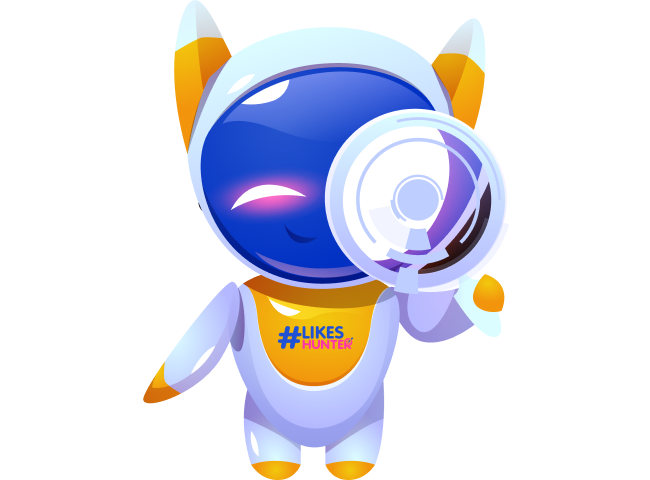
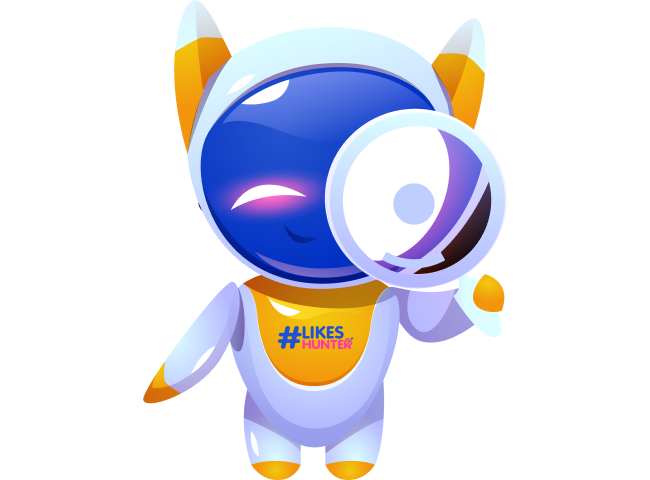
final-41

diff --git a/style.css b/style.css
@@ -1280,9 +1280,11 @@ text-align: left;
     0%
     {
         transform: rotate(0);
+        
     }
     33.333%
     {
+       
         transform: rotate(60deg);
     }
     66.666%
@@ -2457,12 +2459,92 @@ height: 577.77px;
     position: relative;
     right: 0;
 }
-.reasons .works__items .circle{
-    width: 290px;
-    height: 290px;
-    top: 100px;
+
+.reasons .works__items .circle {
+    width: 200px;
+    height: 200px;
+    top: 150px;
     left: auto;
-    right: 87px;
+    right: 135px;
+}
+
+
+
+.reasons .works__items .circle3{
+    animation-name: works-Circle3;
+    animation-duration: 25s;
+    animation-timing-function: linear;
+    animation-iteration-count: infinite;
+}
+
+
+@keyframes works-Circle3
+{
+    0%
+    {
+        transform: scale(0.66) rotate(0);
+    }
+    33.333%
+    {
+        transform: scale(0.66) rotate(70deg);
+    }
+    75%
+    {
+        transform: scale(0.66) rotate(-70deg);
+    }
+    100%
+    {
+        transform: scale(0.66) rotate(0);
+    }
+}
+
+
+
+
+
+.reasons .works__items .circle4{
+    animation-name: works-Circle4;
+    animation-duration: 25s;
+    animation-timing-function: linear;
+    animation-iteration-count: infinite;
+}
+@keyframes works-Circle4
+{
+    0%
+    {
+        transform:scale(0.50) rotate(0);
+    }
+    20%
+    {
+        transform:scale(0.50) rotate(40deg);
+    }
+    100%
+    {
+        transform:scale(0.50) rotate(360deg);
+    }
+}
+
+
+.reasons .works__items .circle5{
+    animation-name: works-Circle5;
+    animation-duration: 25s;
+    animation-timing-function: linear;
+    animation-iteration-count: infinite;
+}
+@keyframes works-Circle5
+{
+    0%
+    {
+        transform: scale(0.3) rotate(0);
+    }
+    50%
+    {
+        transform: scale(0.3) rotate(360deg);
+    }
+    100%
+    {
+        transform: scale(0.3) rotate(0);
+    }
 }
 
 
@@ -2907,6 +2989,22 @@ margin-top: 22px;
     z-index: 2;
     width: 262.5px;
 }
+
+
+
+
+
+.reasons .works__items .circle3{
+    transform: scale(0.7);
+}
+
+
+
+
+
+
+
+
 @media (max-width: 1899px) { 
 
     .first_section .image
@@ -2982,9 +3080,9 @@ margin-top: 22px;
     .tags__approved{
         right: 180px;
     }
-    .reasons .works__items .circle{
-        top: 88px;
-        right: 81px;
+    .reasons .works__items .circle {
+        top: 134px;
+        right: 127px;
     }
     @keyframes how__cirle-phone{
 
@@ -4207,20 +4305,20 @@ z-index: 1;
         right: auto;
         left: 50%;
         transform: translate(-50%);
+        width: 235px;
     }
     .works__img img{
-        height: 147px;
-        width: 212px;
+        height: 177px;
+        width: 235px;
     }
     .reasons .works__items .circle{
-        height: 160px;
-        width: 160px;
+            height: 140px;
+            width: 140px;
     }
-    .reasons .works__items .image{
-        left: -410px;
-        top: -60px;
-
-z-index: 1;
+    .reasons .works__items .image {
+        left: -367px;
+        top: -96px;
+        z-index: 1;
     }
     .works__subtitle{
         text-align: center;
@@ -4245,7 +4343,7 @@ z-index: 1;
         padding-bottom: 100px;
     }
     .works__img{
-        bottom: -356px;
+        bottom: -376px;
     }
 
 
@@ -4463,6 +4561,7 @@ line-height: 26px;
 .swiper-slide-active{
 
 }
+
 @keyframes rocket{
 
     0%{

diff --git a/index.html b/index.html
@@ -248,11 +248,11 @@
                             <img src="img/work__robot.png" alt="">
 							<div class="works__items items">
                                 <div class="works__image image">
-                                    <img src="img/reasons_circle1.png" alt="" class="circle circle1">
-                                    <img src="img/reasons_circle2.png" alt="" class="circle circle2">
-                                    <img src="img/reasons_circle3.png" alt="" class="circle circle3">
-                                    <img src="img/reasons_circle4.png" alt="" class="circle circle4">
-                                    <img src="img/reasons_circle5.png" alt="" class="circle circle5">
+                                    <img src="img/works__circle2.png" alt="" class="circle circle1">
+                                    <img src="img/works__circle1.png" alt="" class="circle circle2">
+                                    <img src="img/works__circle3.png" alt="" class="circle circle3">
+                                    <img src="img/works__circle4.png" alt="" class="circle circle4">
+                                    <img src="img/works__circle2.png" alt="" class="circle circle5">
                                     
                                 </div>
                             </div>
@@ -273,11 +273,11 @@
                 <div class="how__circle">
 							<div class="how__items items">
                                 <div class="how__image image">
-                                    <img src="img/reasons_circle1.png" alt="" class="circle circle1">
-                                    <img src="img/reasons_circle2.png" alt="" class="circle circle2">
-                                    <img src="img/reasons_circle3.png" alt="" class="circle circle3">
-                                    <img src="img/reasons_circle4.png" alt="" class="circle circle4">
-                                    <img src="img/reasons_circle5.png" alt="" class="circle circle5">
+                                    <img src="img/reasons_circle1.png" alt="" class="circle circle1 works-circle1">
+                                    <img src="img/reasons_circle2.png" alt="" class="circle circle2 works-circle2">
+                                    <img src="img/reasons_circle3.png" alt="" class="circle circle3 works-circle3">
+                                    <img src="img/reasons_circle4.png" alt="" class="circle circle4 works-circle4">
+                                    <img src="img/reasons_circle5.png" alt="" class="circle circle5 works-circle5">
                                 </div>
                             </div>
                 </div>
